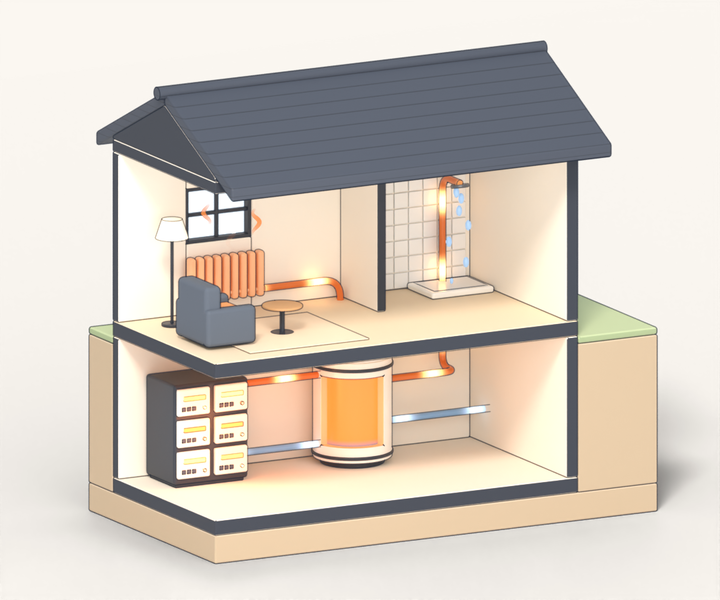
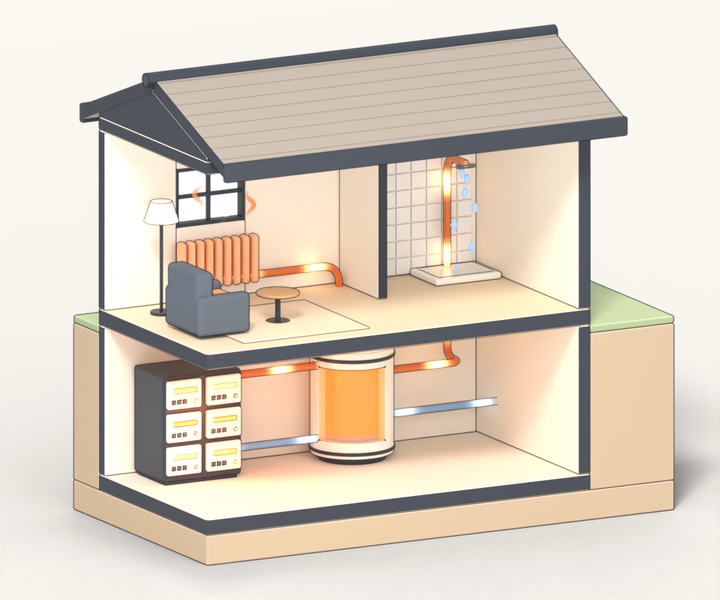
Lighten the roof and lower its pitch
The roof was a dark mass taking about a quarter of the picture. It is now
a warm grey slate with charcoal fascias and ridge, pitched at 21 degrees
rather than 26, and the camera sits closer so the rooms fill more of the
frame.

diff --git a/scripts/heat-loop/heat_loop.py b/scripts/heat-loop/heat_loop.py
@@ -45,7 +45,7 @@ from mathutils import Matrix, Vector
 
 FRONT = -1.2  # the house is cut open along y = FRONT
 LEFT = -3.2  # and along x = LEFT, so the camera sees in at the corner
-PITCH = math.radians(26)
+PITCH = math.radians(21)
 RIDGE_Y = (FRONT + 2.2) / 2
 RIDGE = 2.95 + math.tan(PITCH) * (2.2 - RIDGE_Y)
 
@@ -395,14 +395,23 @@ def build_shell(m):
     front += [(RIDGE_Y, RIDGE + thick), (FRONT - eave, roof_z(FRONT - eave) + thick)]
     back = [(RIDGE_Y, RIDGE), (2.2 + eave, roof_z(2.2 + eave))]
     back += [(2.2 + eave, roof_z(2.2 + eave) + thick), (RIDGE_Y, RIDGE + thick)]
-    prism("roof_front", front, "x", LEFT, 3.5, m["roof"], bevel=0.04)
-    prism("roof_back", back, "x", LEFT, 3.5, m["roof"], bevel=0.04)
+    prism("roof_front", front, "x", LEFT, 3.5, m["roof"], m["cut"], bevel=0.04)
+    prism("roof_back", back, "x", LEFT, 3.5, m["roof"], m["cut"], bevel=0.04)
+    # Charcoal fascia boards along both eaves.
+    for name, y in (("fascia_front", FRONT - eave), ("fascia_back", 2.2 + eave)):
+        z = roof_z(y)
+        box(
+            name,
+            (LEFT, y - 0.05, z - 0.04),
+            (3.5, y + 0.05, z + thick + 0.02),
+            m["trim"],
+        )
     turn = Matrix.Rotation(math.pi / 2, 4, "Y")
     cylinder(
         "ridge",
         0.1,
         6.82,
-        m["roof"],
+        m["trim"],
         Matrix.Translation((0.09, RIDGE_Y, RIDGE + thick - 0.02)) @ turn,
     )
 
@@ -800,8 +809,8 @@ def build_pipes(m):
 
 
 def roof_material():
-    """Slate with faint rows running along the roof."""
-    mat, bsdf = principled("roof", "#39414f", rough=0.6)
+    """Warm grey slate with faint rows running along the roof."""
+    mat, bsdf = principled("roof", "#a39a90", rough=0.65)
     tree = mat.node_tree
     coords = tree.nodes.new("ShaderNodeTexCoord")
     rows = tree.nodes.new("ShaderNodeTexWave")
@@ -813,9 +822,9 @@ def roof_material():
     rows.inputs["Scale"].default_value = 2 * math.pi / (20 * 0.3 * math.sin(PITCH))
     lines = tree.nodes.new("ShaderNodeValToRGB")
     lines.color_ramp.interpolation = "EASE"
-    lines.color_ramp.elements[0].color = lin("#262c37")
+    lines.color_ramp.elements[0].color = lin("#7f766d")
     lines.color_ramp.elements[1].position = 0.12
-    lines.color_ramp.elements[1].color = lin("#3d4554")
+    lines.color_ramp.elements[1].color = lin("#a39a90")
     tree.links.new(rows.outputs["Fac"], lines.inputs["Fac"])
     tree.links.new(lines.outputs["Color"], bsdf.inputs["Base Color"])
     return mat
@@ -900,11 +909,11 @@ def lights_and_world(scene):
 def camera(scene, width, height):
     data = bpy.data.cameras.new("camera")
     data.type = "ORTHO"
-    data.ortho_scale = 11.2
+    data.ortho_scale = 10.6
     data.shift_y = 0.0
     cam = link(bpy.data.objects.new("camera", data), "fx")
     az, el = math.radians(28), math.radians(13)
-    target = Vector((0.15, 0.3, 0.35))
+    target = Vector((0.15, 0.3, 0.15))
     direction = Vector(
         (-math.sin(az) * math.cos(el), -math.cos(az) * math.cos(el), math.sin(el))
     )
